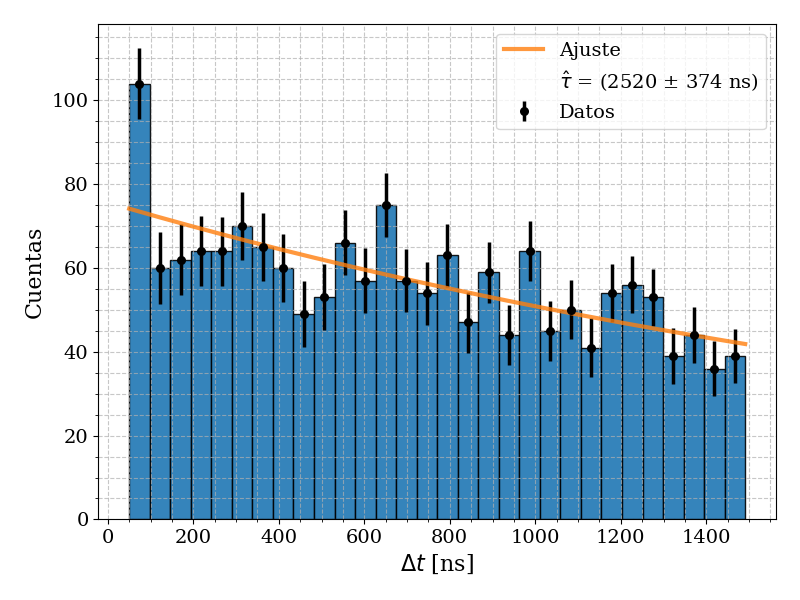
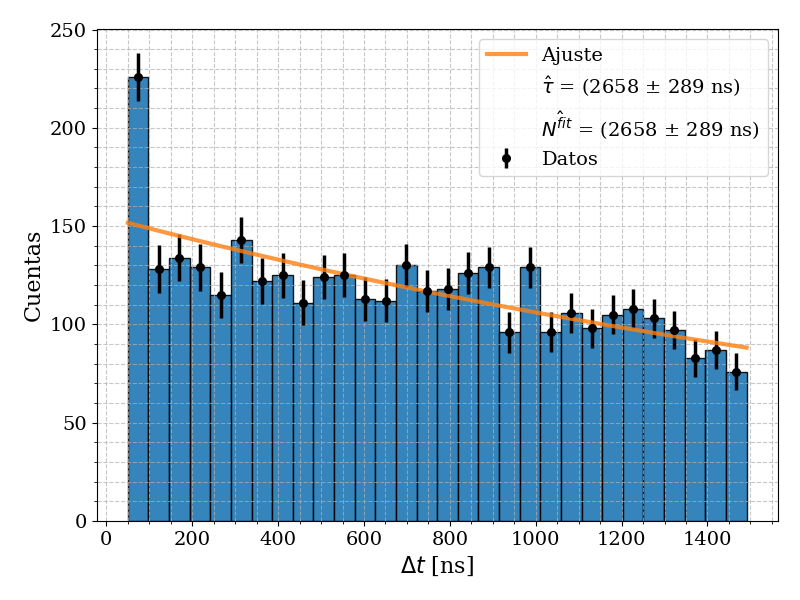
todos los datos procesados, y simulaciones hechas.

Changed region(s): [[0.0312, 0.03, 0.9688, 0.96], [0.4375, 0.18, 0.5312, 0.24], [0.0625, 0.36, 0.125, 0.39]]

diff --git a/practica 2/Clase 9/procesado_decaimientos_informe.py b/practica 2/Clase 9/procesado_decaimientos_informe.py
@@ -1,76 +1,104 @@
 import matplotlib.pyplot as plt
 import numpy as np
-import pandas as pd
+#import pandas as pd
 from scipy.signal import find_peaks
 import funciones as misf
 from scipy.stats import truncexpon # exponencial truncada
 from scipy.optimize import minimize # algoritmo que realiza la minimización
 from scipy.special import xlogy
 from scipy.stats import rv_histogram
-
 plt.style.use('estiloGraficos.mplstyle')
-
 #%%
 def extraer_delta_t(df):
-    resultados = {}
     df =df.reset_index(drop=True)
-    columnas_interes = ["canal 1 [mV]", "canal 2 [mV]", "canal 3 [mV]"]
-    indices_pico_canal_1,_ = find_peaks(-df["canal 1 [mV]"], prominence=1, distance=len(df["canal 1 [mV]"]/2))
+    indices_pico_canal_1, _ = find_peaks(-df["canal 1 [mV]"], prominence=1, distance=len(df["canal 1 [mV]"]/2))
     # Si el canal 1 no tuvo pico, no podemos calcular la resta
     if len(indices_pico_canal_1) == 0:
         return None, None
 
-    indices_pico_canal_2,_ = find_peaks(-df["canal 2 [mV]"][indices_pico_canal_1[0]+30:], prominence=1,distance=len(df["canal 2 [mV]"][indices_pico_canal_1[0]+30:]))
-    indices_pico_canal_3,_ = find_peaks(-df["canal 3 [mV]"][indices_pico_canal_1[0]+30:], prominence=1,distance=len(df["canal 2 [mV]"][indices_pico_canal_1[0]+30:]))
-    
+    indices_pico_canal_2, prop_2 = find_peaks(-df["canal 2 [mV]"][indices_pico_canal_1[0]+30:], prominence=1, height=-np.inf, distance=len(df["canal 2 [mV]"][indices_pico_canal_1[0]+30:]))
+    indices_pico_canal_3, prop_3 = find_peaks(-df["canal 3 [mV]"][indices_pico_canal_1[0]+30:], prominence=1, height=-np.inf, distance=len(df["canal 2 [mV]"][indices_pico_canal_1[0]+30:]))
     t1=df["tiempo [ns]"][indices_pico_canal_1]
-    if len(indices_pico_canal_2) > 0:
-        indices_pico_canal_2 =indices_pico_canal_2[0]+ indices_pico_canal_1[0] + 30
-        delta_t_21 = (df["tiempo [ns]"][indices_pico_canal_2] - t1.iloc[0]) 
+    h2 = prop_2["peak_heights"][0] if len(indices_pico_canal_2) > 0 else -np.inf
+    h3 = prop_3["peak_heights"][0] if len(indices_pico_canal_3) > 0 else -np.inf
+    if h2 == -np.inf and h3 == -np.inf: # Si ninguno de los dos canales secundarios registró un pico post-muón
+        return None, None
+    if h2 > h3:
+        indices_pico_canal_2 = indices_pico_canal_2[0]+ indices_pico_canal_1[0] + 30
+        delta_t_21 = (df["tiempo [ns]"][indices_pico_canal_2] - t1.iloc[0])
+        delta_t_31 = None
     else:
-        delta_t_21 = None
-    
-    if len(indices_pico_canal_3) > 0:
         indices_pico_canal_3 =indices_pico_canal_3[0]+ indices_pico_canal_1[0] + 30
         delta_t_31 = (df["tiempo [ns]"][indices_pico_canal_3] - t1.iloc[0]) 
-    else:
-        delta_t_31 = None
-                
+        delta_t_21 = None
     return delta_t_21, delta_t_31
 #%%
-NOMBRE_ARCHIVO = "decaimientos.parquet"
-df = misf.abrir_parquet(NOMBRE_ARCHIVO)
+nombre_archivo = "decaimientos.parquet"
+df = misf.abrir_parquet(nombre_archivo)
 misf.obtenerInfoDataframe(df)
 resultados = []
-#%%
+
 for id_dec,dfaux in df.groupby("#decaimiento"):
-    print(id_dec)
+    print("N° = ",id_dec)
     if len(dfaux["canal 1 [mV]"])==1024:
         delta_t_aux = extraer_delta_t(dfaux)
         if delta_t_aux[0] != None:
             resultados.append(delta_t_aux[0])
+            print("Canal 2:", delta_t_aux[0])
         if delta_t_aux[1] != None:
             resultados.append(delta_t_aux[1])
+            print("Canal 3:", delta_t_aux[1])
+    print("----------------")
+
+nombre_archivo_3 = "decaimientos3raSemana.parquet"
+df = misf.abrir_parquet(nombre_archivo_3)
+misf.obtenerInfoDataframe(df)
+
+for id_dec,dfaux in df.groupby("#decaimiento"):
+    print("N° = ",id_dec)
+    if len(dfaux["canal 1 [mV]"])==1024:
+        delta_t_aux = extraer_delta_t(dfaux)
+        if delta_t_aux[0] != None:
+            resultados.append(delta_t_aux[0])
+            print("Canal 2:", delta_t_aux[0])
+        if delta_t_aux[1] != None:
+            resultados.append(delta_t_aux[1])
+            print("Canal 3:", delta_t_aux[1])
+    print("----------------")
+
+nombre_archivo_4 = "decaimientos4taSemana.parquet"
+df = misf.abrir_parquet(nombre_archivo_4)
+misf.obtenerInfoDataframe(df)
+
+for id_dec,dfaux in df.groupby("#decaimiento"):
+    print("N° = ",id_dec)
+    if len(dfaux["canal 1 [mV]"])==1024:
+        delta_t_aux = extraer_delta_t(dfaux)
+        if delta_t_aux[0] != None:
+            resultados.append(delta_t_aux[0])
+            print("Canal 2:", delta_t_aux[0])
+        if delta_t_aux[1] != None:
+            resultados.append(delta_t_aux[1])
+            print("Canal 3:", delta_t_aux[1])
+    print("----------------")
 #%%
-#periodo_bin = 50
-#periodo_muestreo = 1698.340
+#min_m, max_m = 50, 1491 # ns, intervalo de truncado
+#nbins = 30
+#resultados = [x for x in resultados_2 if x >= 100]
+#n_obs3, bin_edges3 = np.histogram(resultados, bins=nbins, range=(min_m, max_m)) 
+#fig1, ax1 = plt.subplots(figsize = (8,6))
+#ax1.hist(resultados, bins = bin_edges3, edgecolor='black', alpha=0.9, label="Datos")
+#ax1.set_xlabel(r"$\Delta t$ [ns]")
+#ax1.set_ylabel("Cuentas")
+#ax1.legend()
+#fig1.tight_layout()
+#fig1.show()
+#%%
 periodo_muestreo = 1350
 min_m, max_m = 50, 1491 # ns, intervalo de truncado
 tau_real = 2196.981 # ns
 l_real = 1 / tau_real # ns-1
-
-#nbins = int(periodo_muestreo / periodo_bin)
 nbins = 30
-
-fig, ax = plt.subplots()
-ax.hist(resultados, bins= nbins, edgecolor='black', alpha=0.9)
-
-#ax.set_title("Distribución de $\Delta t$")
-ax.set_xlabel("$\Delta t$")
-ax.set_ylabel("Cuentas")
-
-fig.savefig("Decaimientos.png", dpi = 200)
-#%%
 
 def nu_i_ajuste(params, bordes): # calculo los nu_i esperados por bin
     N_fit, lam_fit = params
@@ -102,6 +130,7 @@ def hessiano_numerico(f, x0, rel_step=1e-3): # para las incertezas
             H[i, j] = (f(x0 + ei + ej) - f(x0 + ei - ej)
                        - f(x0 - ei + ej) + f(x0 - ei - ej)) / (4 * h[i] * h[j])
     return H
+#%%
 x_medido = resultados # los decaimientos
 guess = [len(resultados), l_real]
 n_obs, bin_edges = np.histogram(x_medido, bins=nbins, range=(min_m, max_m))
@@ -118,7 +147,7 @@ m_cov_fit = params_fit.hess_inv.todense()
 f_nll = lambda params: nll_poisson(params, n_obs, bin_edges, nu_i_ajuste)
 H_s = hessiano_numerico(f_nll, [N_fit, lam_fit])
 m_cov_s = 2 * np.linalg.inv(H_s) # nll_poisson es -2lnL, por eso la cov. es 2*H^-1
-error_n, error_lam = np.sqrt(np.diag(m_cov_s))
+error_N, error_lam = np.sqrt(np.diag(m_cov_s))
 tau_fit = 1 / lam_fit
 error_tau = error_lam / (lam_fit**2)
 
@@ -134,15 +163,80 @@ ax1.hist(x_medido, bins = bin_edges, edgecolor='black', alpha=0.9)
 ax1.errorbar(centros_bines,n_obs, yerr=errores_cuentas, fmt='.', color='black', label="Datos")
 ax1.plot(x_fit,pdf_fit * factor_escala,lw=3,alpha=0.8, label="Ajuste")
 ax1.plot([],[], " ", label=r"$\hat{\tau}$ = "f"({tau_fit:.0f} ± {error_tau:.0f} ns)")
+ax1.plot([],[], " ", label=r"$\hat{N^{fit}}$ = "f"{N_fit:.0f} ± {error_N:.0f}")
 ax1.set_xlabel("$\Delta t$ [ns]")
 ax1.set_ylabel("Cuentas")
 ax1.legend()
 fig1.tight_layout()
-fig1.savefig("decaimientos_ajustados.png")
+fig1.savefig("decaimientos_ajustados_todos.png")
 fig1.show()
 #%%
+resultados_2 = resultados
+resultados = [x for x in resultados_2 if x >= 100]
+periodo_muestreo = 1350
+min_m, max_m = 100, 1491 # ns, intervalo de truncado
+tau_real = 2196.981 # ns
+l_real = 1 / tau_real # ns-1
+nbins = 30
+
+def nu_i_ajuste(params, bordes): # calculo los nu_i esperados por bin
+    N_fit, lam_fit = params
+    # SciPy nos pide la escala (1/lambda) y el b estandarizado para evaluar
+    escala_fit = 1 / lam_fit
+    b_std_fit = (max_m - min_m) / escala_fit
+    cdf_evaluada = truncexpon.cdf(bordes, b=b_std_fit, loc=min_m, scale=escala_fit)
+    # es la CDF evaluada en los bordes, 31 en total.
+    p_i = np.diff(cdf_evaluada) # uso la CDF y la resta sucesiva entre los bordes
+    # de los bines para hallar la probabilidad p_i
+    nu_i = N_fit * p_i # eventos esperados en cada bin
+    return nu_i
+
+x_medido = resultados # los decaimientos
+guess = [len(resultados), l_real]
+n_obs, bin_edges = np.histogram(x_medido, bins=nbins, range=(min_m, max_m))
+# con esto obtengo los eventos de cada bin y los bordes de cada bin
+params_fit = minimize(fun=nll_poisson, x0=guess,  # aplico la minimización
+    args=(n_obs, bin_edges, nu_i_ajuste),
+    bounds=([0.1, None],[0.0001, None]), # le pedimos que sea estrictamente positivo
+    method='L-BFGS-B') # esto es un método de "descenso por gradiente". solo le especifico
+    # con qué método realizar la minimización.
+nu_i_fit = nu_i_ajuste(params_fit.x, bin_edges) # calculo los nu_i ajustados
+N_fit, lam_fit = params_fit.x
+m_cov_fit = params_fit.hess_inv.todense()
+
+f_nll = lambda params: nll_poisson(params, n_obs, bin_edges, nu_i_ajuste)
+H_s = hessiano_numerico(f_nll, [N_fit, lam_fit])
+m_cov_s = 2 * np.linalg.inv(H_s) # nll_poisson es -2lnL, por eso la cov. es 2*H^-1
+error_N, error_lam = np.sqrt(np.diag(m_cov_s))
+tau_fit = 1 / lam_fit
+error_tau = error_lam / (lam_fit**2)
+
+x_fit = np.linspace(min_m, max_m, 500)
+pdf_fit = truncexpon.pdf(x_fit, b = (max_m - min_m) / tau_fit, loc=min_m, scale=tau_fit)
+anchos_bines = np.diff(bin_edges)
+centros_bines = (bin_edges[:-1] + bin_edges[1:]) / 2
+factor_escala = N_fit * anchos_bines[0]
+errores_cuentas = np.sqrt(nu_i_fit) # usamos la var o esperanza (es lo mismo).
+ 
+fig1, ax1 = plt.subplots(figsize = (8,6))
+ax1.hist(x_medido, bins = bin_edges, edgecolor='black', alpha=0.9)
+ax1.errorbar(centros_bines,n_obs, yerr=errores_cuentas, fmt='.', color='black', label="Datos")
+ax1.plot(x_fit,pdf_fit * factor_escala,lw=3,alpha=0.8, label="Ajuste")
+ax1.plot([],[], " ", label=r"$\hat{\tau}$ = "f"({tau_fit:.0f} ± {error_tau:.0f} ns)")
+ax1.plot([],[], " ", label=r"$\hat{N^{fit}}$ = "f"{N_fit:.0f} ± {error_N:.0f}")
+ax1.set_xlabel("$\Delta t$ [ns]")
+ax1.set_ylabel("Cuentas")
+ax1.legend()
+ax1.grid(False)
+fig1.tight_layout()
+fig1.savefig("decaimientos_ajustados_todos_recortados.png")
+fig1.show()
+
+
+
+#%%
 # ahora queremos testear la bondad del ajuste, para lo cual hacemos simulaciones.
-N_datos = len(resultados)
+N_datos = len(x_medido)
 b_estandarizado = (max_m - min_m) / tau_real # parámetro que toma la función que me
 # genera los datos de la exponencial
 rng = np.random.default_rng(42) # rng se define una sola vez por fuera para que
@@ -184,13 +278,11 @@ beta = h0_rv.cdf(logl_medido)
 p_val = 1 - beta
 print(f"{beta:.2f}")
 print(f"{p_val:.2f}")
-
-
 #%%
 logl_obtenidos1 = np.array(logl_obtenidos)
 logl_recorte = logl_obtenidos1[logl_obtenidos1 > logl_medido]
 plt.rc("font", size=16)
-fig, ax = plt.subplots(figsize=(6, 6))
+fig, ax = plt.subplots(figsize=(7, 6))
 alturas, bins, _ = ax.hist(logl_obtenidos1, bins=100, histtype="step", density=True,
                            alpha=0.6, color="C1")
 mascara = bins[1:] > logl_medido
@@ -207,12 +299,12 @@ ax.minorticks_on()
 ax.legend()#(fontsize=12)
 ax.grid(False)
 fig.tight_layout()
-fig.savefig("pvalor_verosimilitud_opcion1.png")
+fig.savefig("pvalor_verosimilitud_todos_recortados_opcion1.png")
 fig.show()
 #%%
 logl_obtenidos1 = np.array(logl_obtenidos)
 plt.rc("font", size=16)
-fig, ax = plt.subplots(figsize=(6, 6))
+fig, ax = plt.subplots(figsize=(7, 6))
 alturas, bins, _ = ax.hist(logl_obtenidos1, bins=100,density=True,
                            alpha=0.6, color="C1", label="Distribución simulada")
 ax.axvline(logl_medido, color="black", ls="--", label=r"$\mathscr{L}_{obs}$ = "f"{logl_medido:.0f}")
@@ -226,5 +318,27 @@ ax.minorticks_on()
 ax.legend()#(fontsize=12)
 ax.grid(False)
 fig.tight_layout()
-fig.savefig("pvalor_verosimilitud_opcion2.png")
+fig.savefig("pvalor_verosimilitud_todos_recortados_opcion2.png")
+fig.show()
+#%%
+logl_obtenidos1 = np.array(logl_obtenidos)
+plt.rc("font", size=16)
+fig, ax = plt.subplots(figsize=(7, 6))
+alturas, bins, _ = ax.hist(logl_obtenidos1, bins=100,density=True,
+                           alpha=0.6, color="C1", label="Distribución simulada")
+mascara = bins[1:] > logl_medido
+ax.hist(bins[:-1][mascara], bins=bins, weights=alturas[mascara],
+        alpha=0.8, color="C1")
+ax.axvline(logl_medido, color="black", ls="--", label=r"$\mathscr{L}_{obs}$ = "f"{logl_medido:.0f}")
+ax.plot([],[]," ", label=f"P valor = {p_val:.2f}")
+ax.set_xlabel(r"$\mathscr{L}$ [u.a.]")
+ax.set_ylabel(r"PDF [u.a.]")
+ax.set_xlim(4,66)
+ax.set_ylim(0,0.056)
+ax.tick_params(axis='y', labelsize=12)
+ax.minorticks_on()
+ax.legend()#(fontsize=12)
+ax.grid(False)
+fig.tight_layout()
+fig.savefig("pvalor_verosimilitud_todos_recortados_opcion3.png")
 fig.show()
